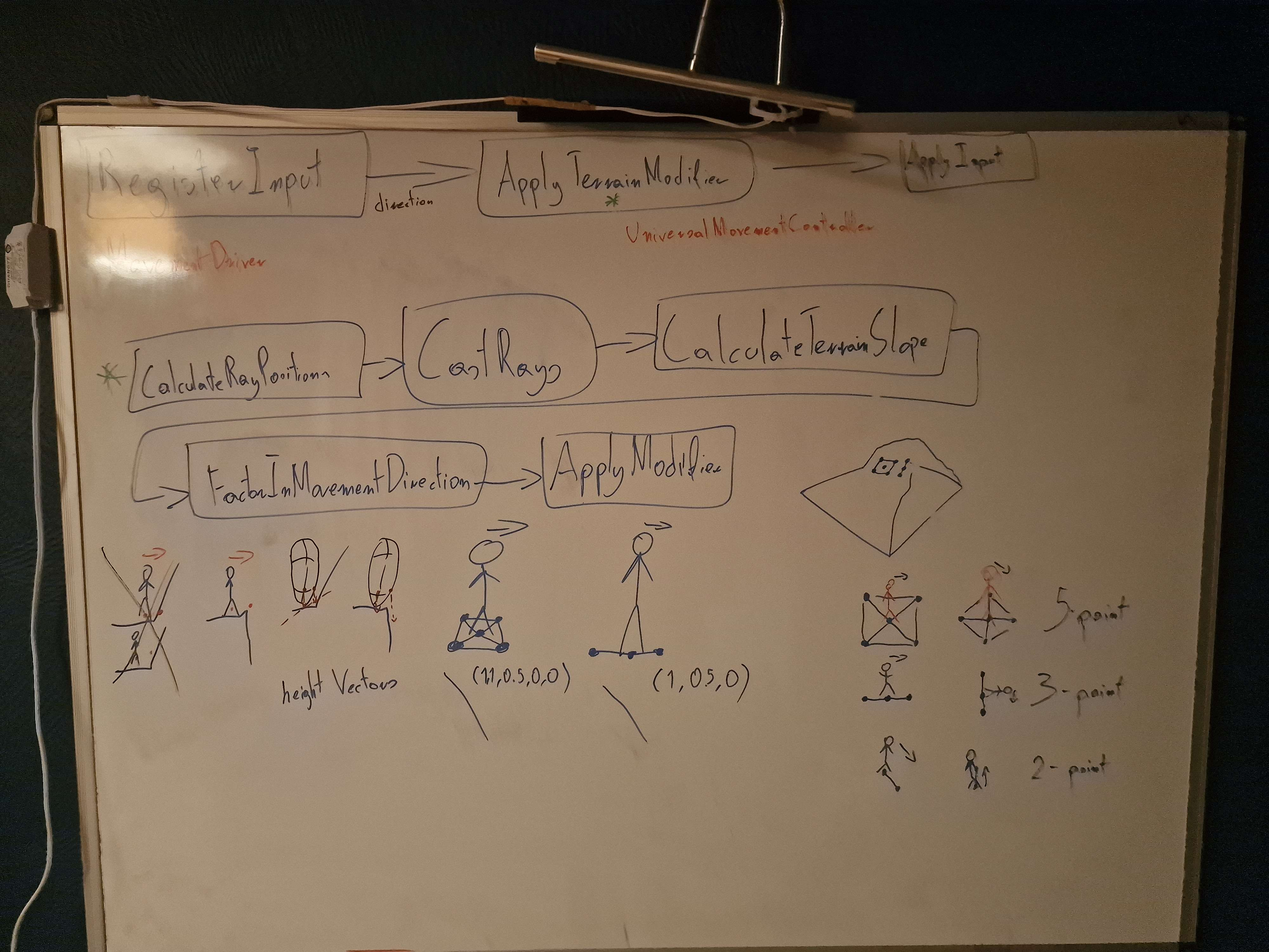
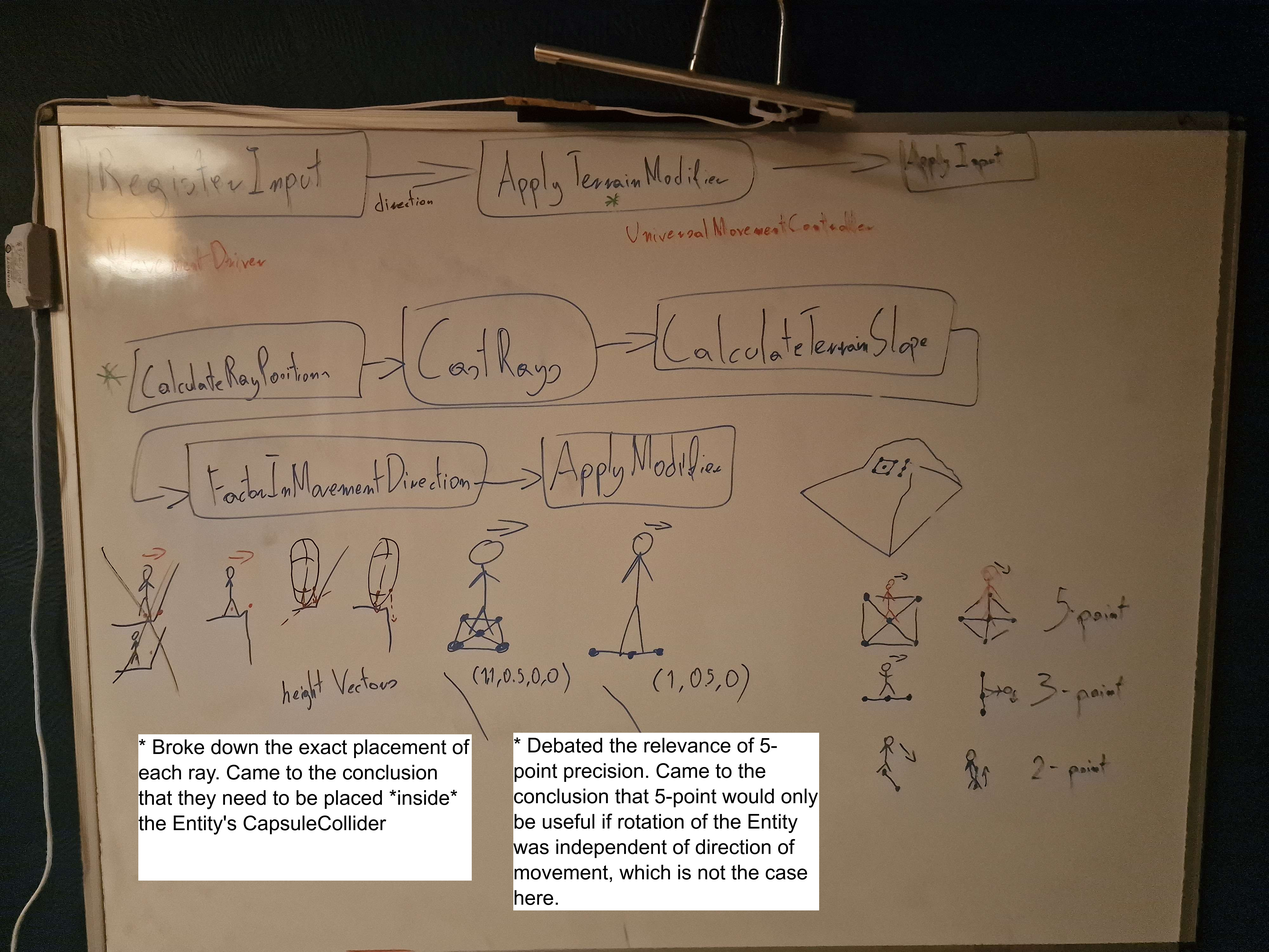
Automated commit DAY #10 - Wed 17 Sep 22:00:01 BST 2025.

Changed region(s): [[0.4062, 0.744, 0.6562, 0.961], [0.0938, 0.744, 0.375, 0.93]]

diff --git a/daily_logs/Sep2025/day8_Mon15Sep2025.md b/daily_logs/Sep2025/day8_Mon15Sep2025.md
@@ -2,9 +2,21 @@
 
 # Activities
 
-<12am - Over the weekend I explored other ways of solving my navigational problem ([day 7](day7_Fri12Sep2025.md) including  periodically spawning in a giant `SphereCollider` to get a list of each unique `GameObject` that the NPC can "see". This would be WAY more efficient but I'm still not 100% happy with this solution.
+<12am - Over the weekend I explored other ways of solving my navigational problem ([day 7 - Issues/Errors Section](day7_Fri12Sep2025.md)) including  periodically spawning in a giant `SphereCollider` to get a list of each unique `GameObject` that the NPC can "see". This would be WAY more efficient but I'm still not 100% happy with this solution.
 
-1am - Started working on 
+1am - Started working on a new controller component "`UniversalMovementController`" that would handle movement for all in-game entities.
+
+1:20am - Started by sketching up a workflow diagram and assigning specific responsibilities to different entities (Entities in red). Then sketched up another diagram for the new responsibility I wanted to introduce - Applying terrain modifier to movement speed. 
+
+![newMovementControllerFlowChart1.jpg](../assets/newMovementControllerFlowChart1.jpg)
+
+2am - Explored different ways of detection of that slope. Discussed it with Bogdan. 
+
+![newMovementControllerFlowChart2.jpg](/home/snek/Desktop/portfolio/Uni-year2/assets/newMovementControllerFlowChart2.jpg)
+
+
+
+
 
 9pm - Discussed different methods of giving NPCs eyesight in our Unity project with Bogdan.
 

diff --git a/daily_logs/Sep2025/day9_Tue16Sep2025.md b/daily_logs/Sep2025/day9_Tue16Sep2025.md
@@ -4,9 +4,9 @@
 
 3am - Downloaded Unity's AI Navigation package and researched NavMesh.
 
-
-
 6am - Added NavMesh to my randomized training environment.
+
+![appliedNavmeshToRandomizedTrainingEnv.png](../assets/appliedNavmeshToRandomizedTrainingEnv.png)
 
 6:15am - Applied NavMesh carving to obstacles.
 
@@ -25,8 +25,5 @@
 ## Resources
 
 [Unity NavMesh Tutorial - Basics - YouTube](https://www.youtube.com/watch?v=CHV1ymlw-P8)
-
-
-
 
 [AI Navigation 2.0 - NavMesh basics - YouTube](https://www.youtube.com/watch?v=SMWxCpLvrcc)
